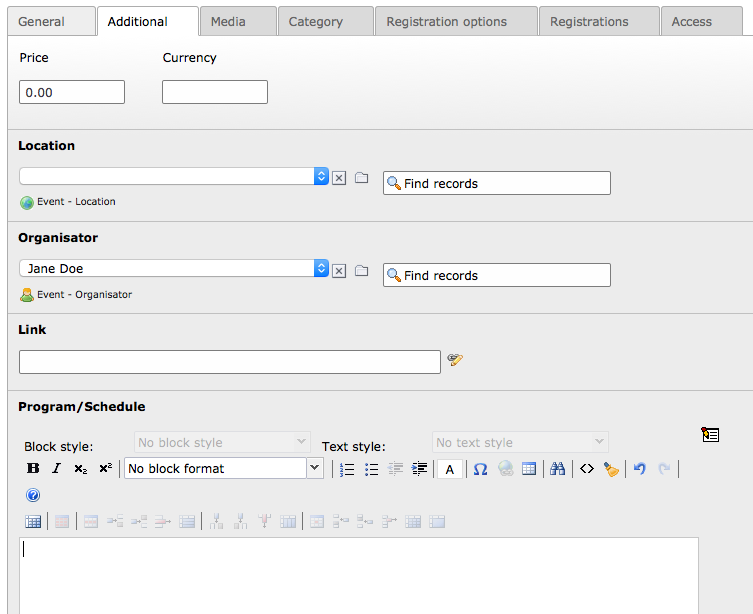
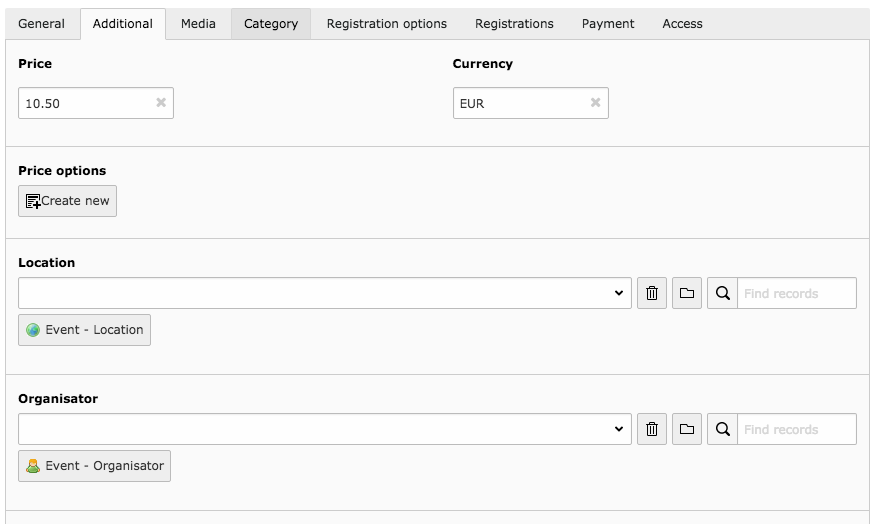
[TASK] Added documentation for price option - closes #347

diff --git a/Documentation/ForEditors/Events/Index.rst b/Documentation/ForEditors/Events/Index.rst
@@ -84,7 +84,7 @@ program/schedule.
 
 .. figure:: ../../Images/event-additional.png
    :align: left
-   :width: 500px
+   :width: 800px
    :alt: Event additional tab
 
 .. t3-field-list-table::
@@ -107,6 +107,18 @@ program/schedule.
 
    :Description:
          The currency for the price.
+
+ - :Field:
+         Price options
+
+   :Description:
+         If the event has prices based on a selected date (e.g. early bird price), you can define one or multiple
+         price options. The following fields are availabe for price options.
+
+         * Price
+         * Date until the price is valid (selected date is included)
+
+         The event management will automatically output the current price if the ``{event.currentPrice}`` getter is used.
 
  - :Field:
          Location
@@ -329,7 +341,7 @@ Custom payment methods can be added. For documentation, please refer to the :ref
          Description:
 
  - :Field:
-            Enable Payment
+         Enable Payment
 
    :Description:
          If checked, a user registering for an event can select available payment options

diff --git a/Documentation/Faq/Index.rst b/Documentation/Faq/Index.rst
@@ -175,3 +175,9 @@ The default payment methods are missing
 ~~~~~~~~~~~~~~~~~~~~~~~~~~~~~~~~~~~~~~~
 
 Open the extension settings in the extension manager and press the "Save" button.
+
+Configured price options do not show up in frontend
+~~~~~~~~~~~~~~~~~~~~~~~~~~~~~~~~~~~~~~~~~~~~~~~~~~~
+
+Make sure that the date for the price option is valid also make sure, that you use ``{event.currentPrice}`` in your
+Fluid template to output the current price.

diff --git a/Documentation/Introduction/WhatDoesItDo/Index.rst b/Documentation/Introduction/WhatDoesItDo/Index.rst
@@ -32,6 +32,7 @@ Event management and registration is an extension for TYPO3 CMS to manage events
 * Optional Spam-Protection with reCAPTCHA
 * Download of iCal file for events
 * Uses TYPO3 system categories to structure events by category
+* Price options valid until selected dates (e.g. for early bird prices)
 * Payment processing after successful registration (see :ref:`developer_payment` section)
 * Configurable payment methods
 

diff --git a/README.md b/README.md
@@ -29,6 +29,7 @@ Event management and registration is an extension for TYPO3 CMS to manage events
 * Optional Spam-Protection with reCAPTCHA
 * Download of iCal file for events
 * Uses TYPO3 system categories to structure events by category
+* Price options valid until selected dates (e.g. for early bird prices)
 * Payment processing after successful registration
 * Configurable payment methods
 
